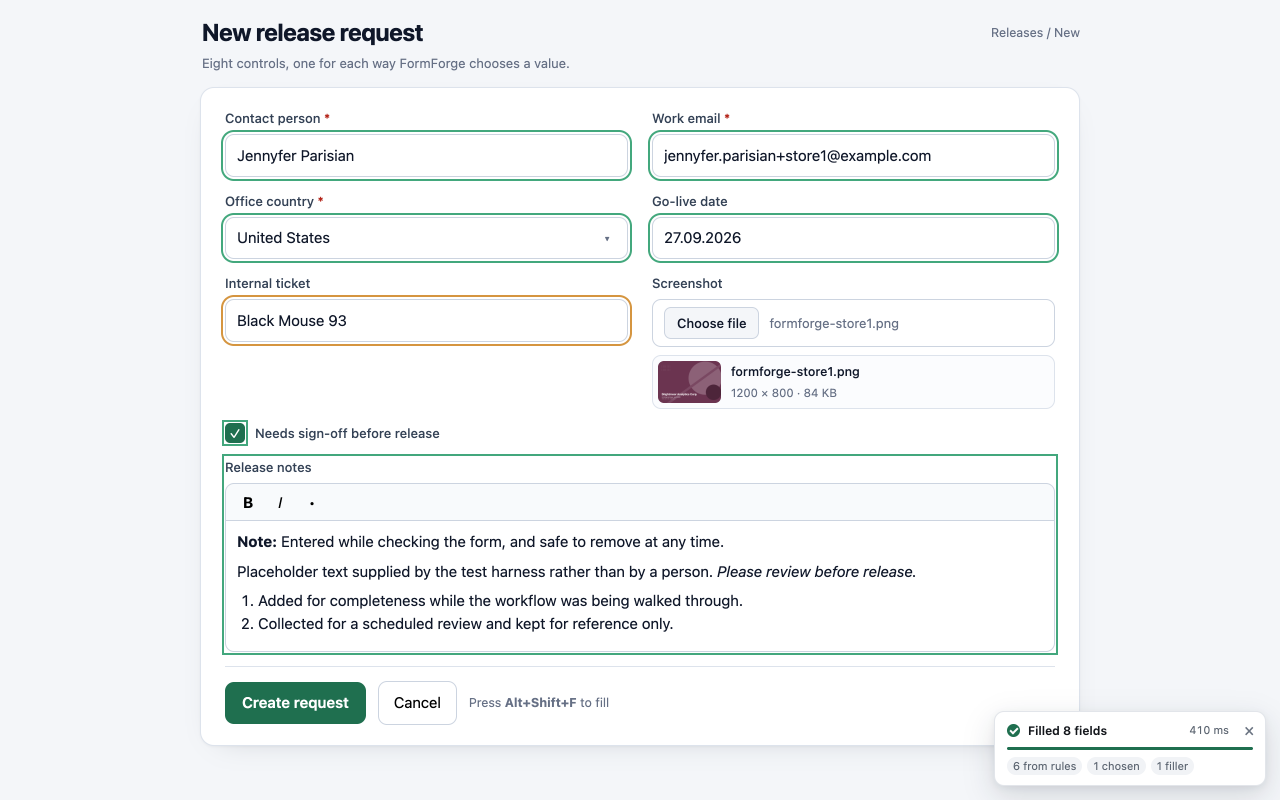
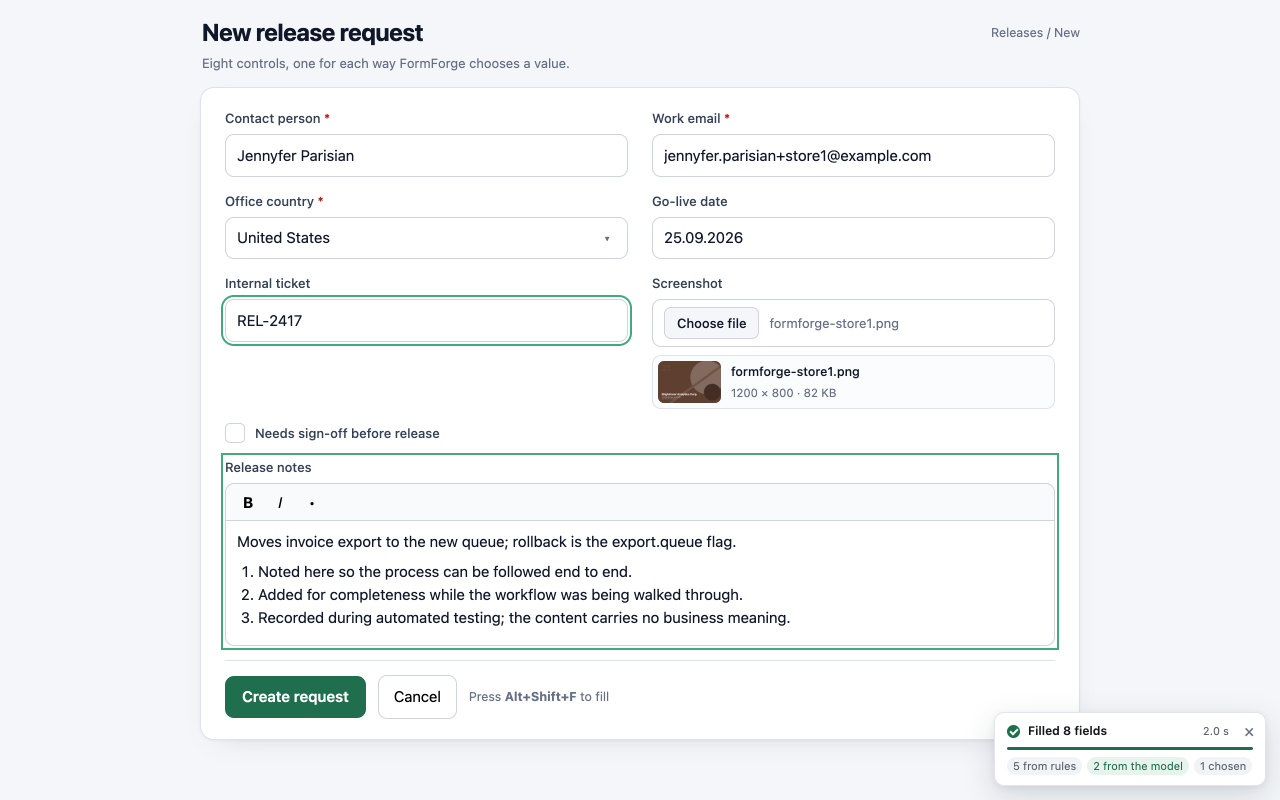
Say exactly what a hosted provider is sent, and show the model in the store pictures
The privacy policy said the extension never sends values from the page, and in the
next breath that it sends texts from a table; the listing said only labels leave.
Both now list what the prompt actually carries, and say that table cells on an
admin page can be real records.

The store frames were rendered with no model, so every one said "rules only" and
the hero field held a fallback. The screenshot tool now gives the worker a
stand-in model that answers through the real session and write path.

diff --git a/docs/store/listing.md b/docs/store/listing.md
@@ -58,8 +58,9 @@ Alt+Shift+F fills the page, Alt+Shift+D the focused field, Alt+Shift+R fills aga
 clears. Right-click → Fill this page / Fill just this field.
 
 PRIVACY
-Everything runs in your browser. Nothing leaves it unless you enter an API key, and then only the labels of fields no
-rule could answer go to the provider you chose. No analytics, no telemetry, no remote code.
+Everything runs in your browser. Nothing leaves it unless you enter an API key, and then only for fields no rule could
+answer: their labels, limits and options, the form's title and a few short texts from a table on the page go to the
+provider you chose. No analytics, no telemetry, no remote code.
 https://github.com/vlad-artyomov/formforge/blob/main/PRIVACY.md
 
 Open source, MIT: https://github.com/vlad-artyomov/formforge
@@ -91,8 +92,9 @@ None. All code ships in the package. The optional hosted providers are called wi
 
 - **Authentication information**: an API key the user may enter, stored locally, sent only to the provider chosen.
 - **Website content**: field labels, names, placeholders, option lists and headings of the form being filled are
-  read to choose values; for fields no rule answers they are sent to the on-device model or, if configured, to the
-  hosted provider. Values the user already typed are never sent anywhere.
+  read to choose values. For fields no rule answers, their labels, section headings, limits and options, the form's
+  title and up to three short texts from a table on the page go to the on-device model or, if the user entered an
+  API key, to the hosted provider they chose. What is typed into the form's fields is never sent anywhere.
 - Not sold, not used for purposes unrelated to the single purpose, not used for creditworthiness or lending.
 
 ## Assets

diff --git a/README.md b/README.md
@@ -158,8 +158,9 @@ as though it arrived slowly.
 | `contextMenus`           | The right-click entries.                                                                                                                                         |
 | `<all_urls>`             | A tester's form is on their own host, and forms are often split across origins — an embedded payment or booking frame is outside the tab's own.                  |
 
-Rules and the on-device model run entirely in your browser. Field labels reach a hosted provider only if you enter
-an API key, and then only the labels and limits of fields no rule could answer — never values already on the page.
+Rules and the on-device model run entirely in your browser. Anything reaches a hosted provider only if you enter an
+API key, and then only for fields no rule could answer: their labels, limits and options, the form's title and a few
+short texts from a table on the page ([PRIVACY.md](PRIVACY.md) lists it all) — never what is typed into the form.
 Uploaded files are generated in the page; nothing is fetched. Phone numbers come only from ranges reserved for
 fiction — US `555-0100` to `555-0199`, and in Germany the Bundesnetzagentur's *Drama-Nummern*: `030 23125 xxx`,
 `040 66969 xxx`, `089 99998 xxx`, `0221 4710 xxx`, `069 90009 xxx`, or one of the two reserved mobile blocks — and

diff --git a/PRIVACY.md b/PRIVACY.md
@@ -33,9 +33,17 @@ By default, **nothing**. The rules and Chrome's built-in model run on your machi
 Chrome's own, from Google, and only starts when you click the download button.
 
 If you enter an API key, then for fields no rule could answer FormForge sends the provider you chose (Anthropic,
-OpenAI or Google) the labels and limits of those fields, the page or dialog title, up to five short texts from a
-table on the page, and the invented persona. It never sends values from the page, your key to anyone but that
-provider, or anything at all when the backend is set to *On-device only*.
+OpenAI or Google):
+
+- each field's label, the heading of the section it sits in, its type and limits, and up to twelve of the options a
+  list offers;
+- one line naming the form: the dialog's title, the page heading, the breadcrumb or the page title;
+- up to three short texts from the first table on the page, so a value takes the shape of the rows already there.
+  On an admin page these can be real records — use *On-device only* where that matters;
+- the invented persona.
+
+It never sends what is typed into the form's fields, your key to anyone but that provider, or anything at all when
+the backend is set to *On-device only*.
 
 FormForge has no analytics, no telemetry, no ads and no remote code. It does not phone home.
 
